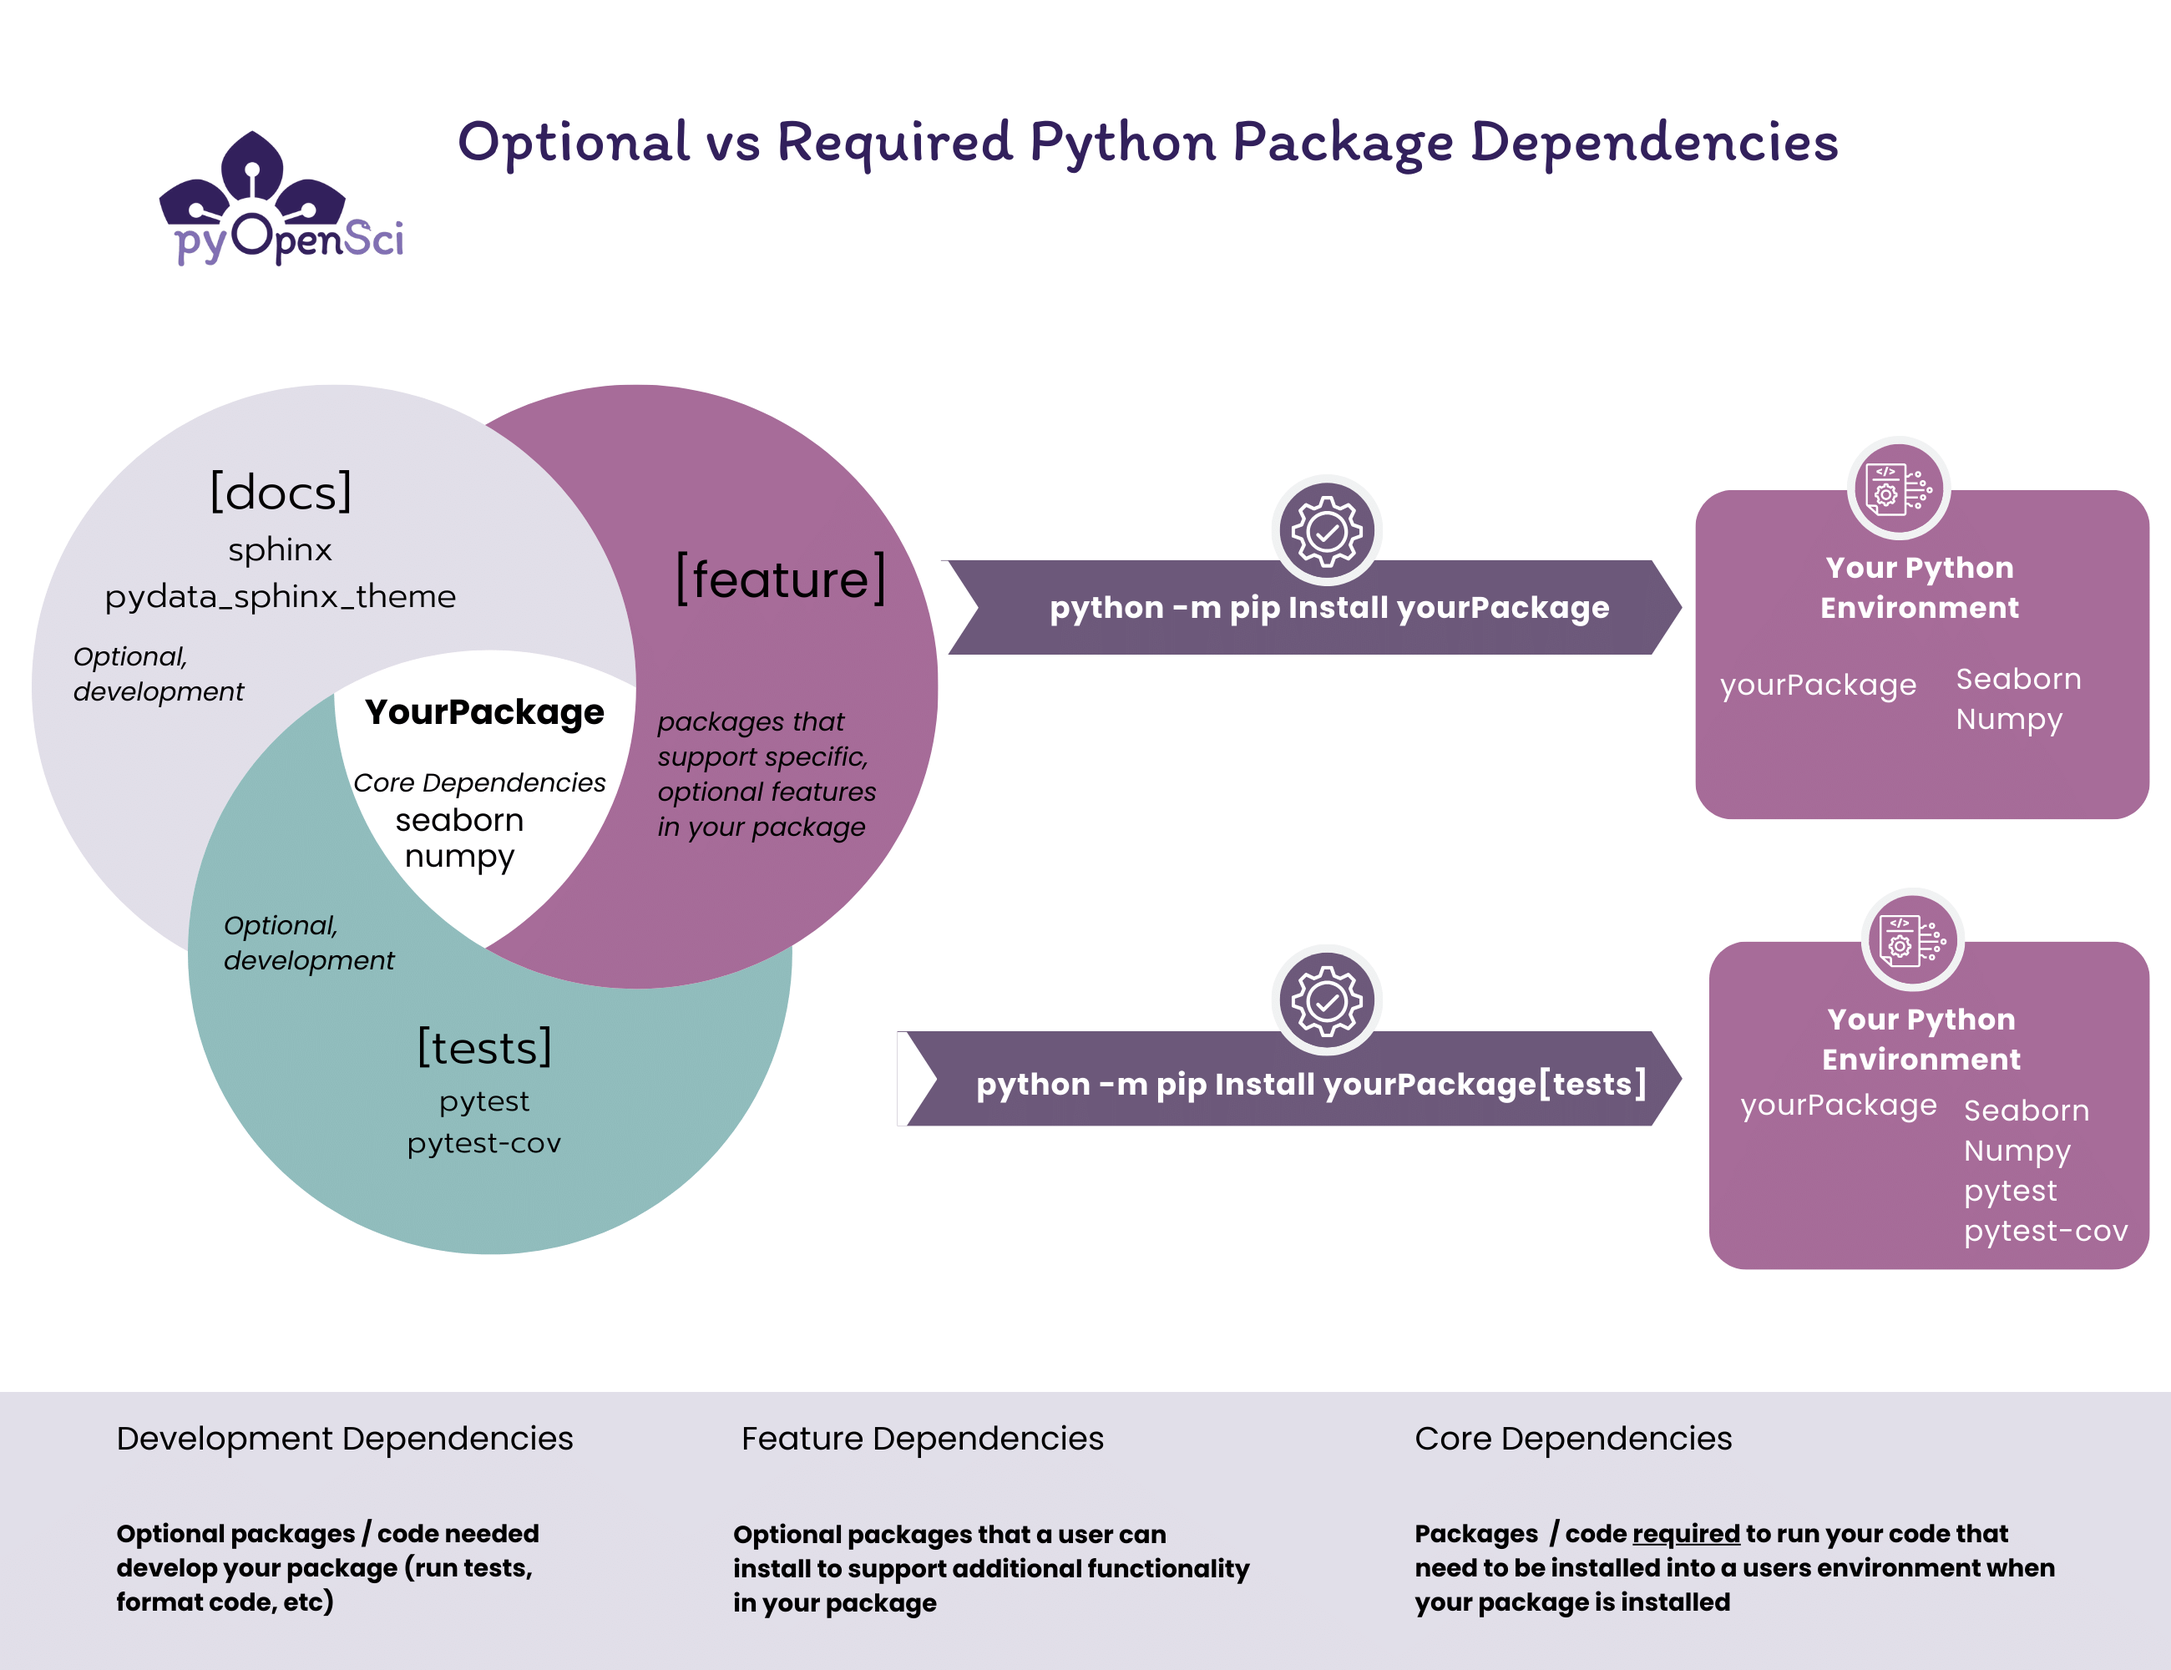
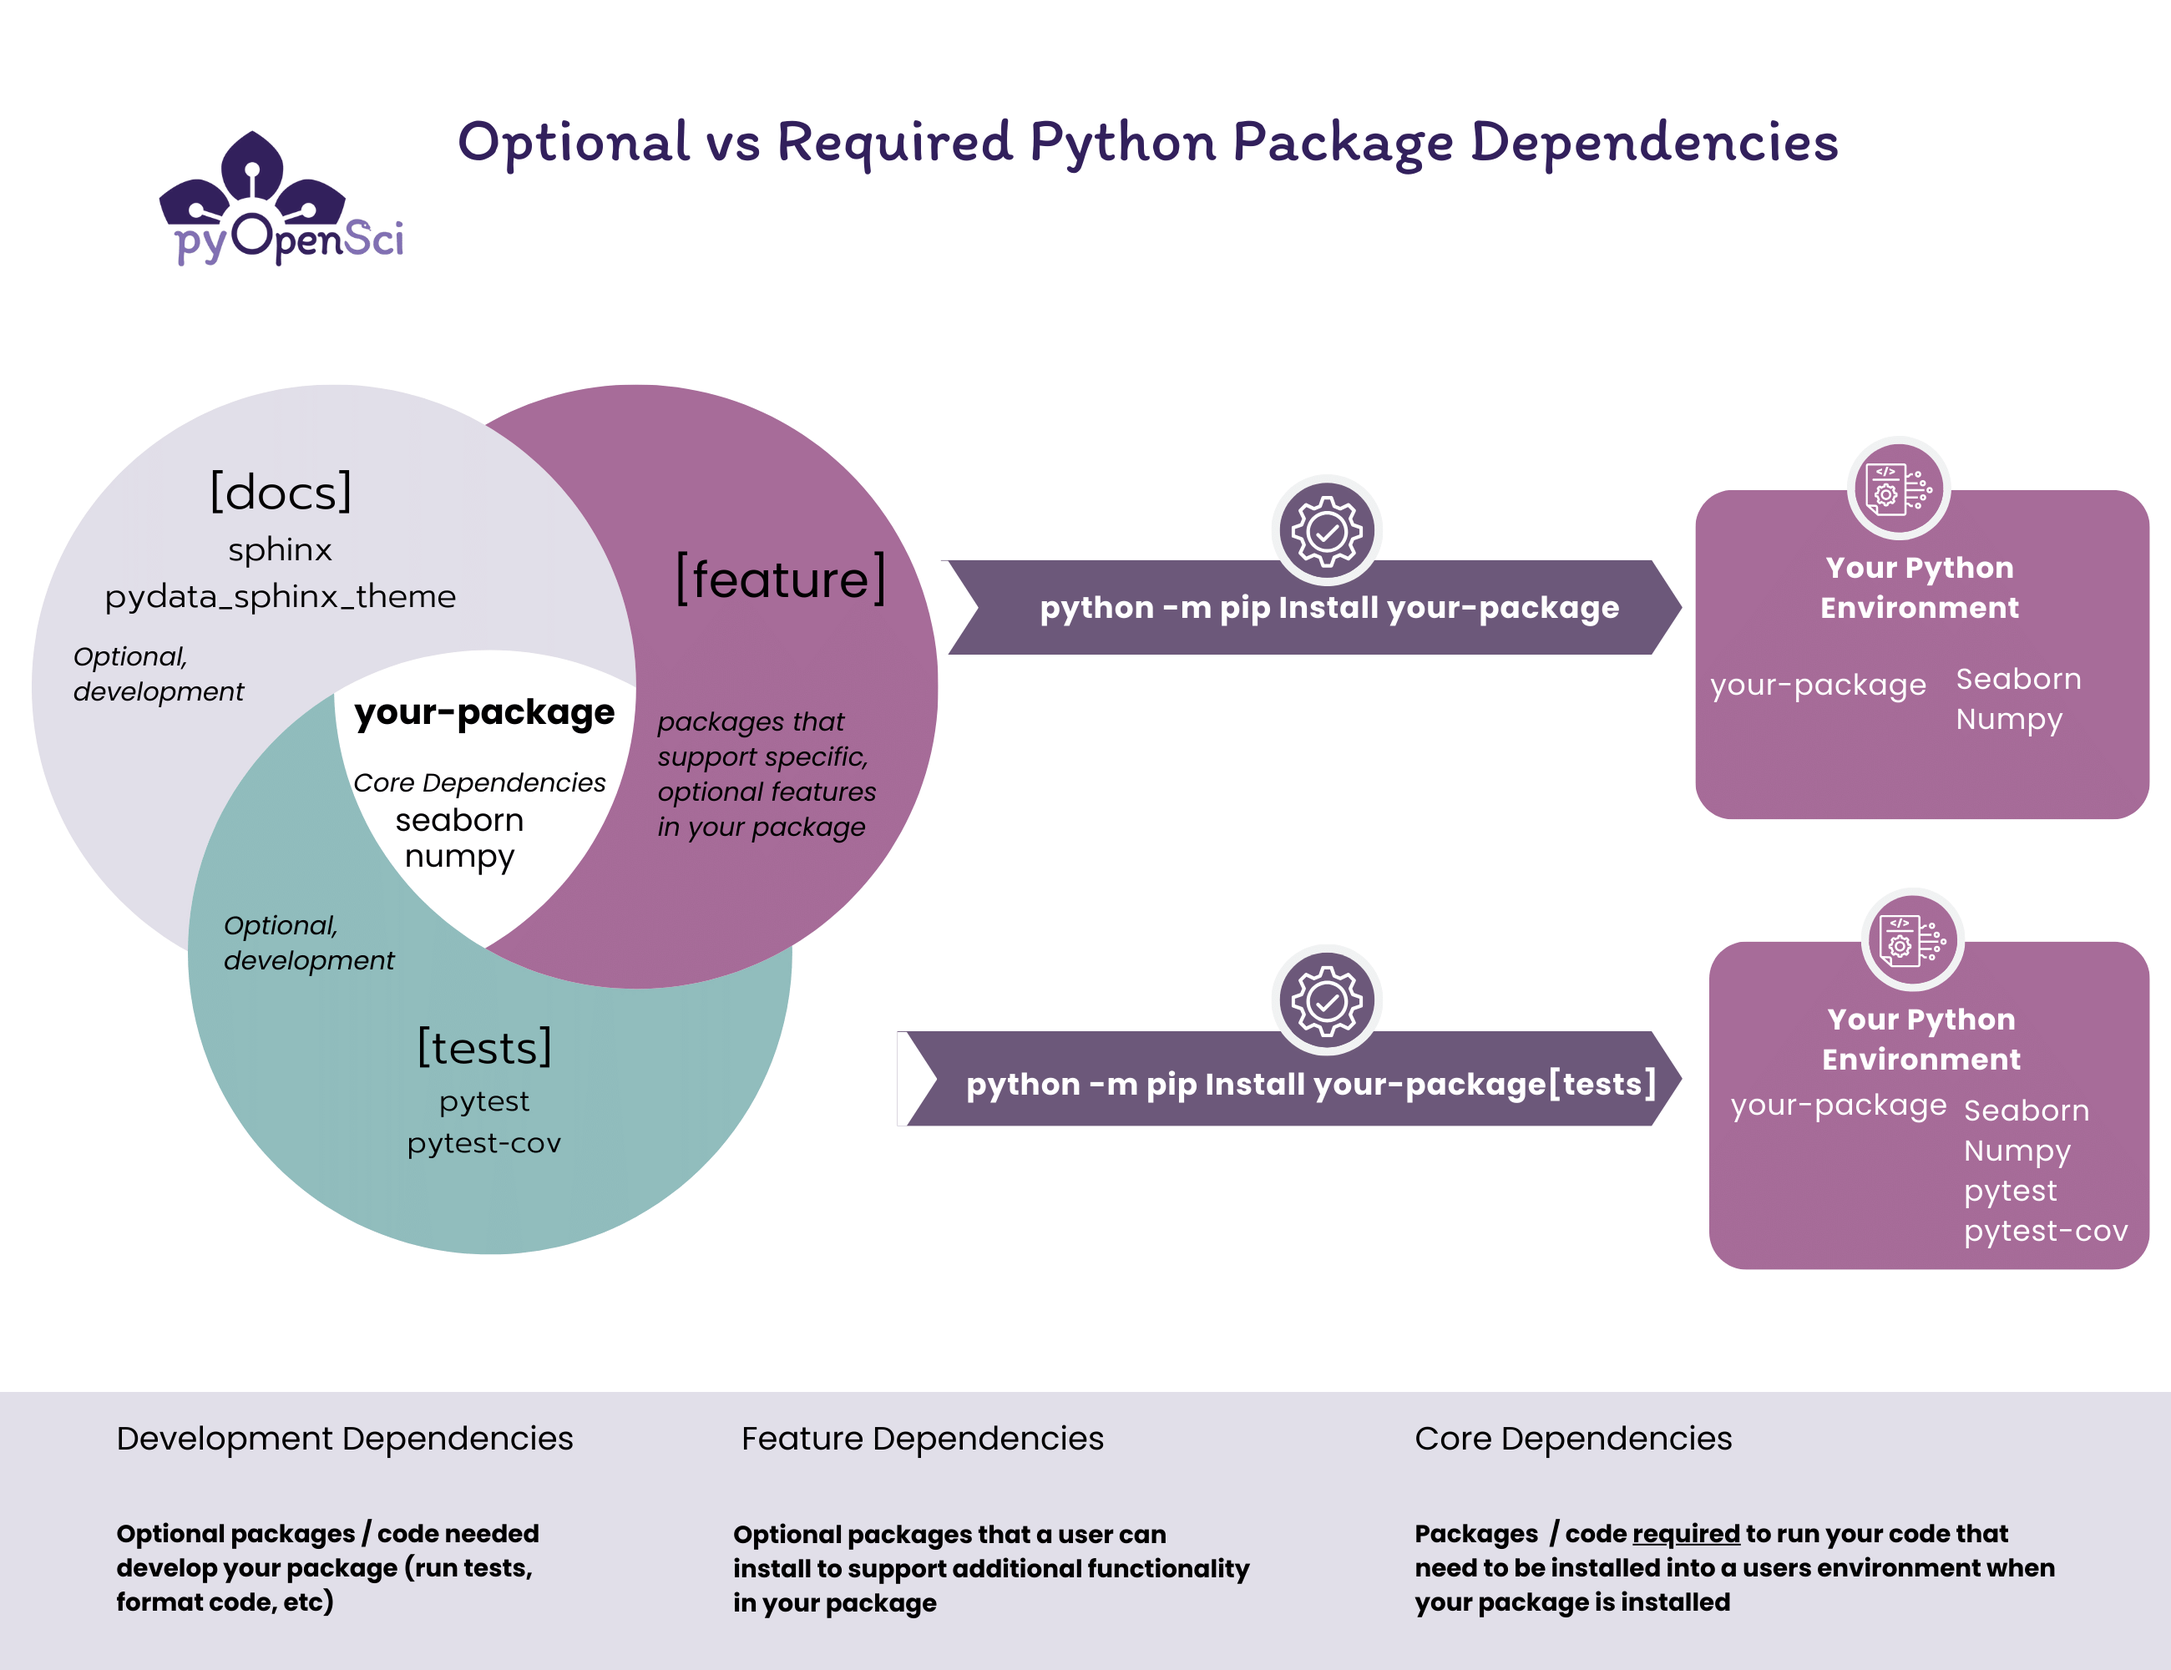
Fix: package name consistency in text and graphics

diff --git a/package-structure-code/declare-dependencies.md b/package-structure-code/declare-dependencies.md
@@ -223,9 +223,9 @@ feature = [
 
 :::{figure-md} python-package-dependencies
 
-<img src="../images/python-package-dependencies.png" alt="Diagram showing a ven diagram with three sections representing the dependency groups listed above - docs feature and tests. In the center it says yourPackage and lists the core dependencies of that package seaborn and numpy. To the right are two arrows. the first shows the command python - m pip install yourPackage. it them shows how installing your package that way installs only the package and the two core dependencies into a users environment. Below is a second arrow with python -m pip install youPackage[tests]. This leads to an environment with both the package dependencies - yourPackage, seaborn and numpy and also the tests dependencies including pytest and pytest-cov ">
+<img src="../images/python-package-dependencies.png" alt="Diagram showing a ven diagram with three sections representing the dependency groups listed above - docs feature and tests. In the center it says your-package and lists the core dependencies of that package seaborn and numpy. To the right are two arrows. The first shows the command python - m pip install your-package. it them shows how installing your package that way installs only the package and the two core dependencies into a users environment. Below is a second arrow with python -m pip install youPackage[tests]. This leads to an environment with both the package dependencies - your-package, seaborn and numpy and also the tests dependencies including pytest and pytest-cov ">
 
-When a user installs your package locally using python -m pip install yourPackage only your package and it's core dependencies get installed. When they install your package`[tests]` pip will install both your package and its core dependencies plus any of the dependencies listed within the tests array of your `[optional.dependencies]` table.
+When a user installs your package locally using python -m pip install your-package only your package and it's core dependencies get installed. When they install your package `[tests]` pip will install both your package and its core dependencies plus any of the dependencies listed within the tests array of your `[optional.dependencies]` table.
 :::
 
 :::{admonition} Using `python -m pip install` vs. `pip install`
@@ -278,9 +278,9 @@ quotes to the command in this guide like this:
 In some cases you may see commands without the quotes in guidebooks or contributing
 guides like the example below:
 
-`python -m pip install yourPackage[tests]`
+`python -m pip install your-package[tests]`
 
-Calling yourPackage[tests] without the double quotes will work on some shells *but not all*.
+Calling your-package[tests] without the double quotes will work on some shells *but not all*.
 
 ```
 
@@ -319,7 +319,7 @@ When you install dependencies using the above syntax:
 The `pyproject.toml` file allows you to list any
 Python package published on PyPI (or on GitHub/ GitLab) as a dependency. Once you create this file, declare dependencies, [build your package](python-package-distribution-files-sdist-wheel.md) and [publish your package to PyPI](publish-python-package-pypi-conda.md), people can install both your package and all of it's dependencies with one command.
 
-`python -m pip install yourPackage`
+`python -m pip install your-package`
 
 This works great if your package is pure-python (no other languages used).
 
